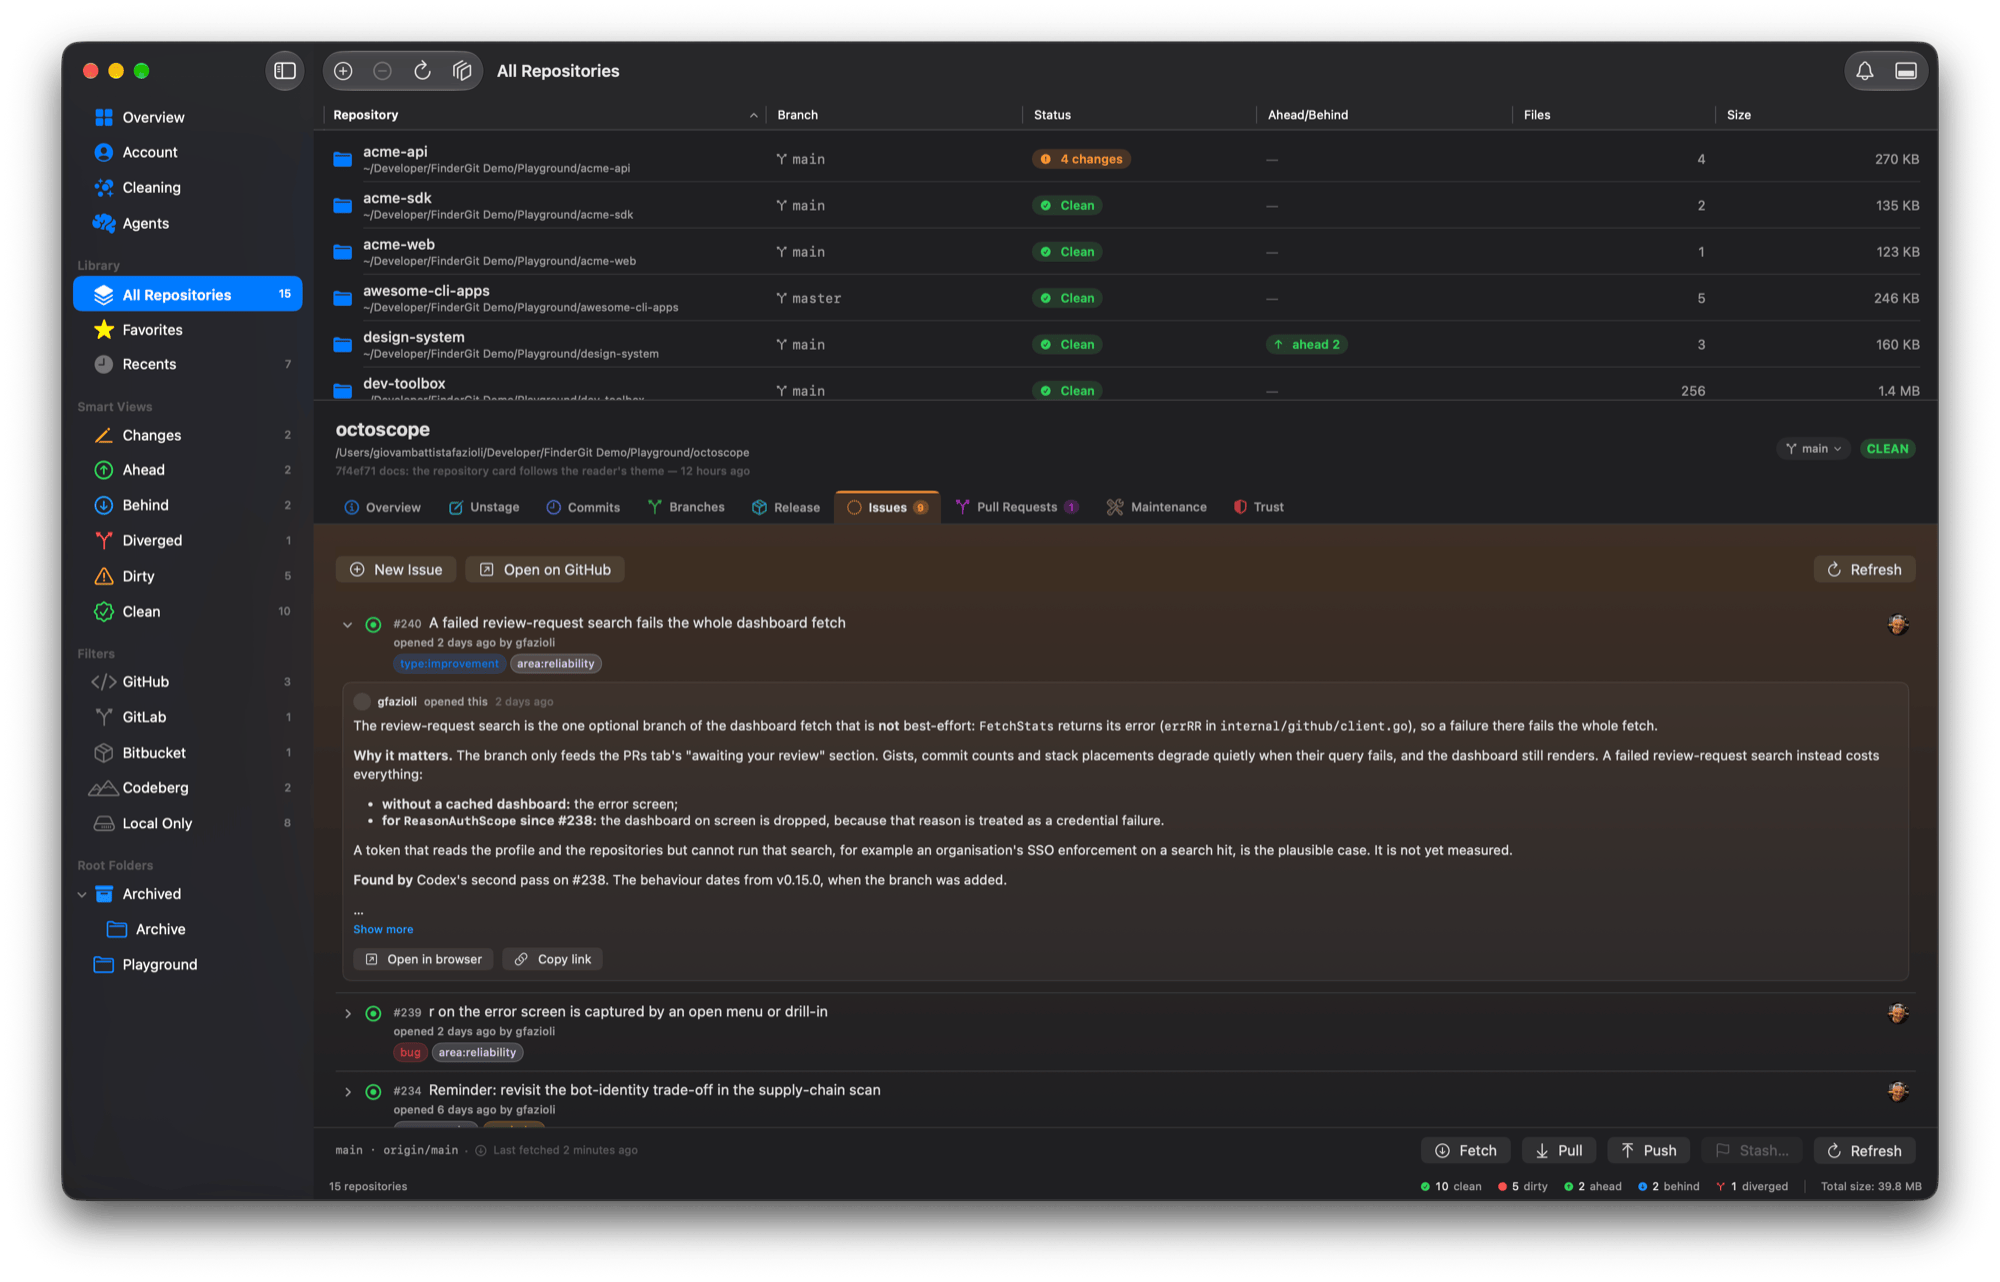
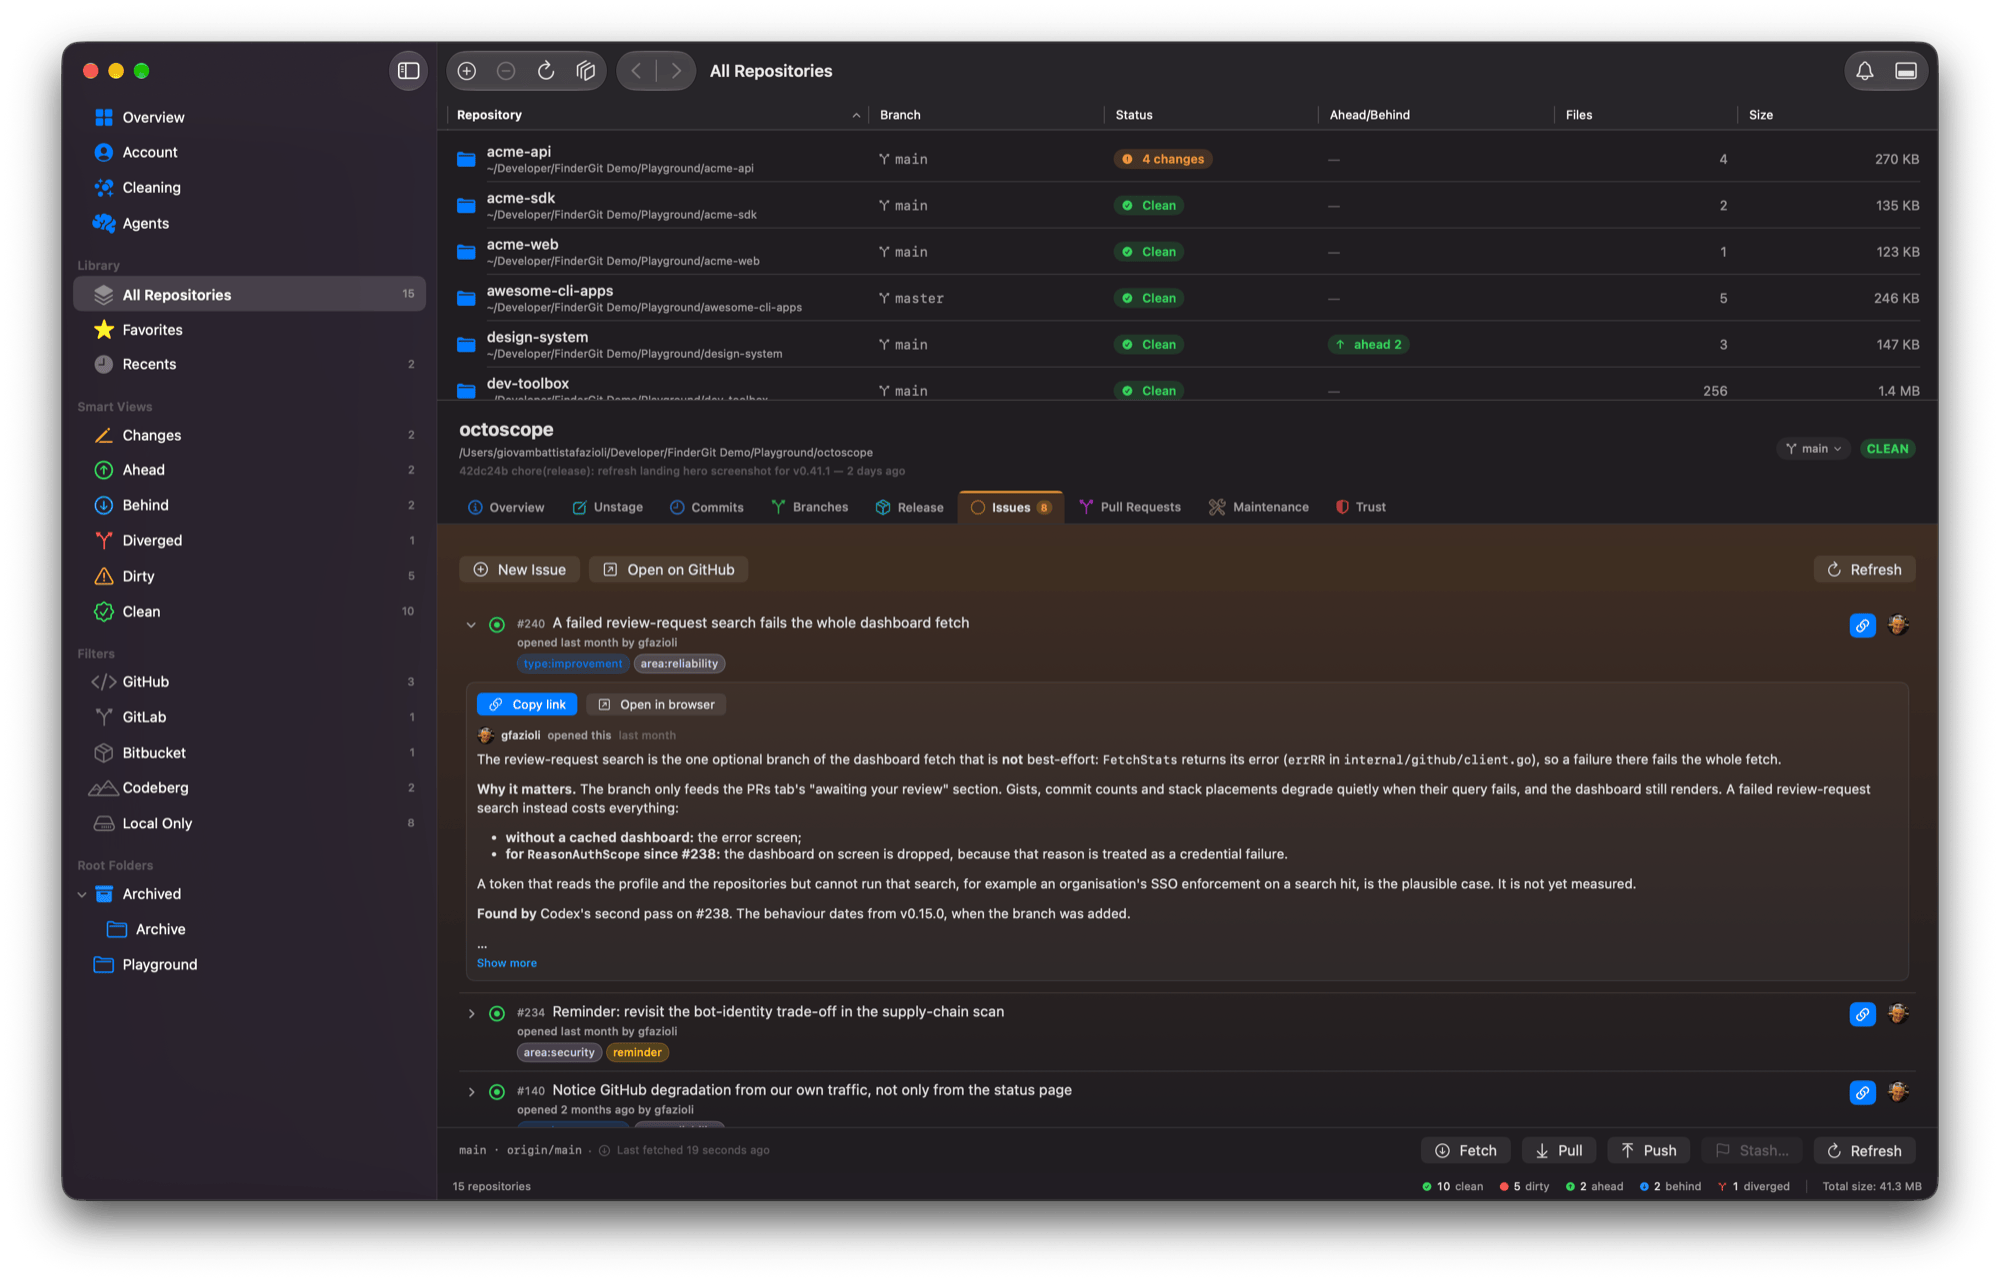
feat(sparkle): publish FinderGit v0.62.0 to appcast

diff --git a/public/release-notes/0.62.0.html b/public/release-notes/0.62.0.html
@@ -1,0 +1,116 @@
+<!DOCTYPE html>
+<html lang="en">
+<head>
+<meta charset="utf-8">
+<meta name="viewport" content="width=device-width, initial-scale=1">
+<title>FinderGit 0.62.0 — Release Notes</title>
+<style>
+  :root {
+    color-scheme: light dark;
+    --bg: #ffffff;
+    --fg: #1a1a1a;
+    --accent: #007aff;
+    --muted: #6b6b73;
+    --code-bg: #f4f4f5;
+    --border: rgba(0,0,0,0.12);
+  }
+  @media (prefers-color-scheme: dark) {
+    :root {
+      --bg: #1c1c1e;
+      --fg: #ececec;
+      --muted: #9c9ca5;
+      --code-bg: #2c2c2e;
+      --border: rgba(255,255,255,0.14);
+    }
+  }
+  * { box-sizing: border-box; }
+  body {
+    font: 14px/1.55 -apple-system, BlinkMacSystemFont, "SF Pro Text", "Helvetica Neue", sans-serif;
+    color: var(--fg);
+    background: var(--bg);
+    margin: 0 auto;
+    padding: 20px 24px 40px;
+    max-width: 720px;
+  }
+  header.page-header {
+    border-bottom: 1px solid var(--border);
+    padding-bottom: 14px;
+    margin-bottom: 22px;
+  }
+  header.page-header h1 { font-size: 1.7em; margin: 0 0 4px; letter-spacing: -0.02em; }
+  header.page-header .subtitle { color: var(--muted); margin: 0; font-size: 0.92em; }
+  h1, h2, h3, h4 { letter-spacing: -0.01em; margin: 1.5em 0 0.5em; }
+  h1 { font-size: 1.4em; }
+  h2 { font-size: 1.2em; }
+  h3 { font-size: 1em; }
+  a { color: var(--accent); }
+  hr { border: 0; border-top: 1px solid var(--border); margin: 22px 0; }
+  ul, ol { padding-left: 1.4em; }
+  li { margin: 4px 0; }
+  code {
+    font: 0.9em ui-monospace, "SF Mono", Menlo, Consolas, monospace;
+    background: var(--code-bg);
+    padding: 1px 5px;
+    border-radius: 3px;
+  }
+  pre {
+    background: var(--code-bg);
+    padding: 12px 14px;
+    border-radius: 6px;
+    overflow-x: auto;
+    font-size: 0.88em;
+  }
+  pre code { background: transparent; padding: 0; font-size: 1em; }
+  blockquote {
+    margin: 12px 0;
+    padding-left: 12px;
+    border-left: 3px solid var(--border);
+    color: var(--muted);
+  }
+  table { border-collapse: collapse; width: 100%; margin: 12px 0; font-size: 0.95em; }
+  th, td { border: 1px solid var(--border); padding: 6px 10px; text-align: left; }
+  th { background: var(--code-bg); }
+  img { max-width: 100%; }
+</style>
+</head>
+<body>
+<header class="page-header">
+  <h1>FinderGit 0.62.0</h1>
+  <p class="subtitle">Release notes</p>
+</header>
+<p>FinderGit 0.62.0 — issues and pull requests that read like the web</p>
+<h2>Highlights</h2>
+<ul>
+<li><strong>A thread reads the way it does on the web.</strong> Review bots, and plenty of people, write their comments with HTML inside the Markdown: collapsed sections, definition lists, tables, line breaks, pictures with a light and a dark variant. FinderGit used to print all of it as tags, forty lines of <code class="notranslate">&lt;details&gt;</code> and <code class="notranslate">&lt;br&gt;</code> before the first word. It now draws it: bold, links, headings, lists, tables and quotes come out as what they mean, and code is left exactly as written.</li>
+<li><strong>Collapsed sections are folds.</strong> A collapsed section is a row with a chevron: click to open, click again to close. Folds nest, start open when the author said so, and a long description counts a closed fold as one row, so <strong>Show more</strong> appears only when there is more to show.</li>
+<li><strong>Callouts carry their title.</strong> <code class="notranslate">&gt; [!NOTE]</code>, Tip, Important, Warning and Caution print their heading, in your language.</li>
+<li><strong>Copy link is where you look first.</strong> In an open issue or pull request the actions moved to the top, <strong>Copy link</strong> filled and first. Under a discussion they are repeated, so the end of a long thread has them too.</li>
+<li><strong>A link button on every row.</strong> Each row of the Issues and Pull Requests tabs has its own link button: the address is one click away without opening the thread, and the button confirms the copy.</li>
+<li><strong>Right-click an issue or a pull request.</strong> Open it on the web, or copy its link, a Markdown link (<code class="notranslate">[#12 Title](…)</code>), its title, its number and, for a pull request, the name of its branch.</li>
+</ul>
+<h2>Bug fixes</h2>
+<ul>
+<li><strong>Links in a thread open web and mail addresses only.</strong> A thread is written by anyone who can open an issue; a link that names a file or another app is no longer followed.</li>
+<li><strong>A comment cannot be written to stall the window.</strong> A table declared thousands of columns wide is a few kilobytes of text and millions of cells on screen. A table past 50 columns or 2,000 cells is now shown as plain lines, and nesting and the number of folds in one comment are capped.</li>
+<li>The avatar of whoever opened an issue or pull request shows in its preview; on GitHub it was a grey disc.</li>
+<li>A comment that quotes <code class="notranslate">&lt;!--</code> inside code no longer loses everything after it.</li>
+<li>Relative links in a thread resolve against the thread's own page.</li>
+</ul>
+<h2>Under the hood</h2>
+<ul>
+<li>The conversion lives in the framework: a line lexer that knows code from prose (fenced, indented, in backticks, inside a quote or a list item) and a stack builder that turns the allowed tags into Markdown blocks and folds. A tag it does not know, such as <code class="notranslate">Array&lt;String&gt;</code>, is left as text.</li>
+<li>It is bounded on hostile input: look-ahead has a budget, nesting stops at 40 levels and quotes at 8, a comment holds at most 200 folds, link definitions copied across folds have a size budget, and the table limits apply to HTML and Markdown tables alike. Bodies of 56 to 65 KB written to be slow or large convert in about a tenth of a second at worst.</li>
+<li>A reference-style link finds its definition on the other side of a fold: each block is given the definitions it uses.</li>
+<li>Images in a thread are still never fetched from the network.</li>
+<li>A thread's body is converted when its text changes, not every time the panel around it redraws.</li>
+</ul>
+<h2>Install</h2>
+<ol>
+<li>Download <code class="notranslate">FinderGit-0.62.0.dmg</code></li>
+<li>Open the DMG and drag FinderGit into Applications (or open it from there, and it offers to move itself)</li>
+<li>Launch normally — the app is signed with an Apple Developer ID and notarized by Apple</li>
+</ol>
+<h2>Requirements</h2>
+<p>macOS 15 or later. Universal binary (Apple Silicon and Intel).</p>
+</body>
+</html>

diff --git a/config/index.ts b/config/index.ts
@@ -98,13 +98,13 @@ export default {
     defaultLanguage: 'en',
   },
   app: {
-    version: '0.61.0',
+    version: '0.62.0',
     // Publication date of `version`, UTC, written by release.sh next to the
     // version itself. It is the OFFLINE FALLBACK for the homepage release
     // strip: the live date and the release count come from the GitHub
     // releases API, and this is what the strip shows when that call is
     // rate-limited or down. Also the JSON-LD `dateModified`.
-    releaseDate: '2026-11-11',
+    releaseDate: '2026-11-12',
     minMacOS: '15.0',
     downloadUrl: 'https://github.com/gfazioli/findergit-website/releases/latest',
   },
